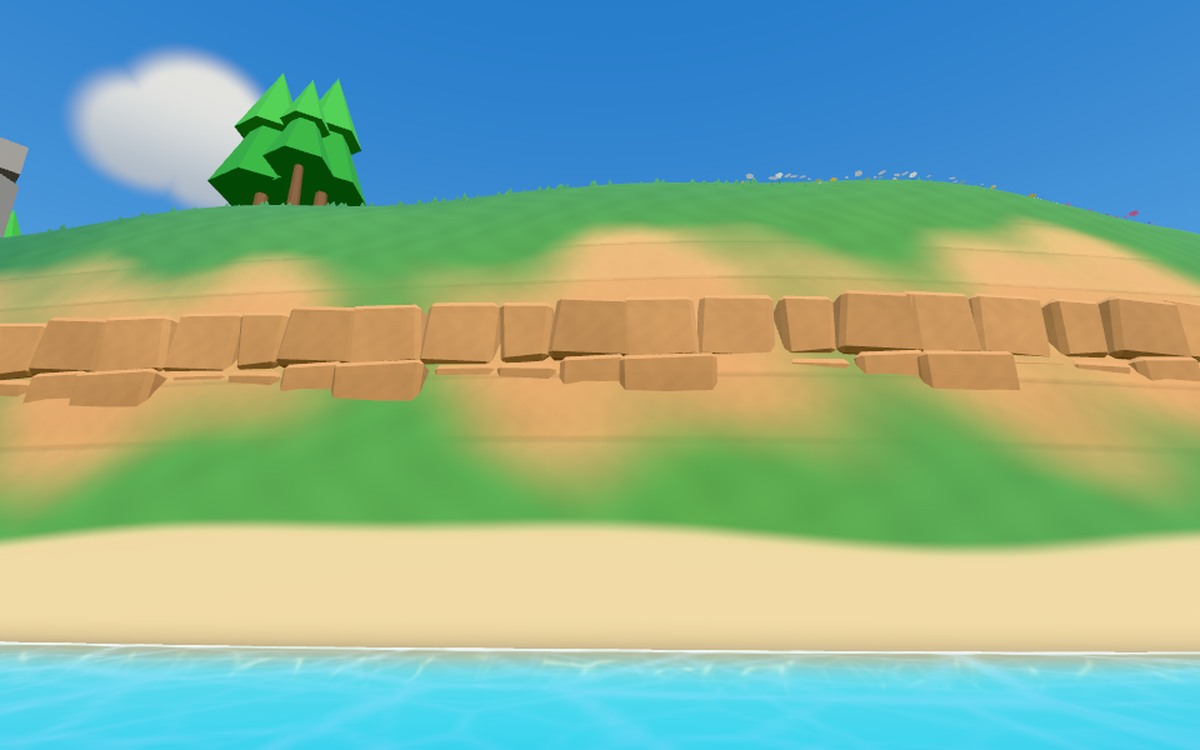
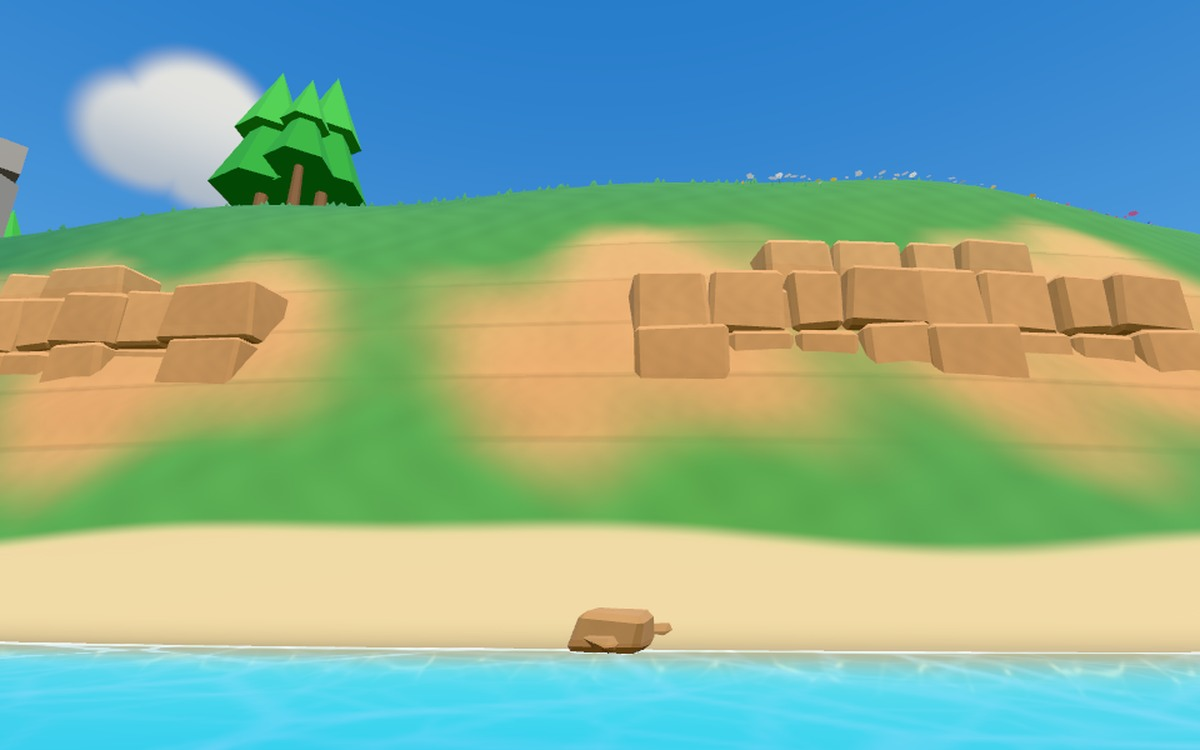
Record the final matched cliff views and updated census

diff --git a/docs/plans/cliff-kit-everywhere.md b/docs/plans/cliff-kit-everywhere.md
@@ -551,26 +551,27 @@ passes, above the step’s 58,000 guide, and seven draws. Device frame time is u
 
 ## Step 4 as built
 
-The gorge mouth and south sea cliff (walls 4, 7 and 8) carry 41 crowned sea faces and three shore rocks.
-Both banks follow the shore kit's height contours. A second tier on the south coast closed a pocket behind
-the lower course, so that coast keeps one course. With all five areas mounted, the reverse flood lost zero
-of the 121,801 cells checked around the mouth. The closest tread sample clears the edge by 1.01 m.
+The gorge mouth and south sea cliff (walls 4, 7 and 8) carry 22 crowned faces and three waterline rocks.
+The census rock mask clips the east bank's courses. On the steep west bank, two taller canyon faces seat into the cut.
+The south coast has two outcrops with shorter upper courses and a grass break. The headlands between the trees
+and the crack beside the south path stay clear. The combined reverse flood lost zero cells across 121,801 samples.
+The closest tread sample clears the edge by 2.35 m.
 The rail gauge is clear. The canyon, shore, gorge rim and long gorge wall levels match main byte for byte.
 
 [Matched sea, path and eye-level stills](cliff-kit-everywhere/gorge-mouth-before-after.jpg).
 
 The controller walked 17 m east along the south path and held its horizontal position through two seconds idle.
-The new area adds 24,320 kit triangles per pass. The mouth draws it twice, adding 48,640 triangles and six draws.
+The kit adds 13,540 triangles per pass. At the mouth camera that is 27,080 triangles and ten draws across both passes.
 
 | Census camera | Draws, main → step 4 | Triangles, main → step 4 |
 | --- | ---: | ---: |
-| Shore | 158 → 161 | 768,883 → 793,203 |
-| Shore climb | 375 → 378 | 1,017,289 → 1,041,609 |
+| Shore | 158 → 163 | 769,195 → 782,735 |
+| Shore climb | 376 → 381 | 1,017,641 → 1,031,181 |
 | Canyon climb | 206 → 206 | 829,299 → 829,299 |
-| Gorge rim | 369 → 372 | 955,441 → 979,761 |
-| Gorge mouth | 426 → 432 | 1,001,968 → 1,050,608 |
+| Gorge rim | 369 → 372 | 955,441 → 967,485 |
+| Gorge mouth | 427 → 437 | 1,003,924 → 1,031,004 |
 | Far Head | 291 → 291 | 844,745 → 844,745 |
-| Summit | 346 → 346 | 1,006,666 → 1,006,666 |
+| Summit | 346 → 346 | 1,006,978 → 1,006,978 |
 
 ## Design review (2026-11-24)
 
